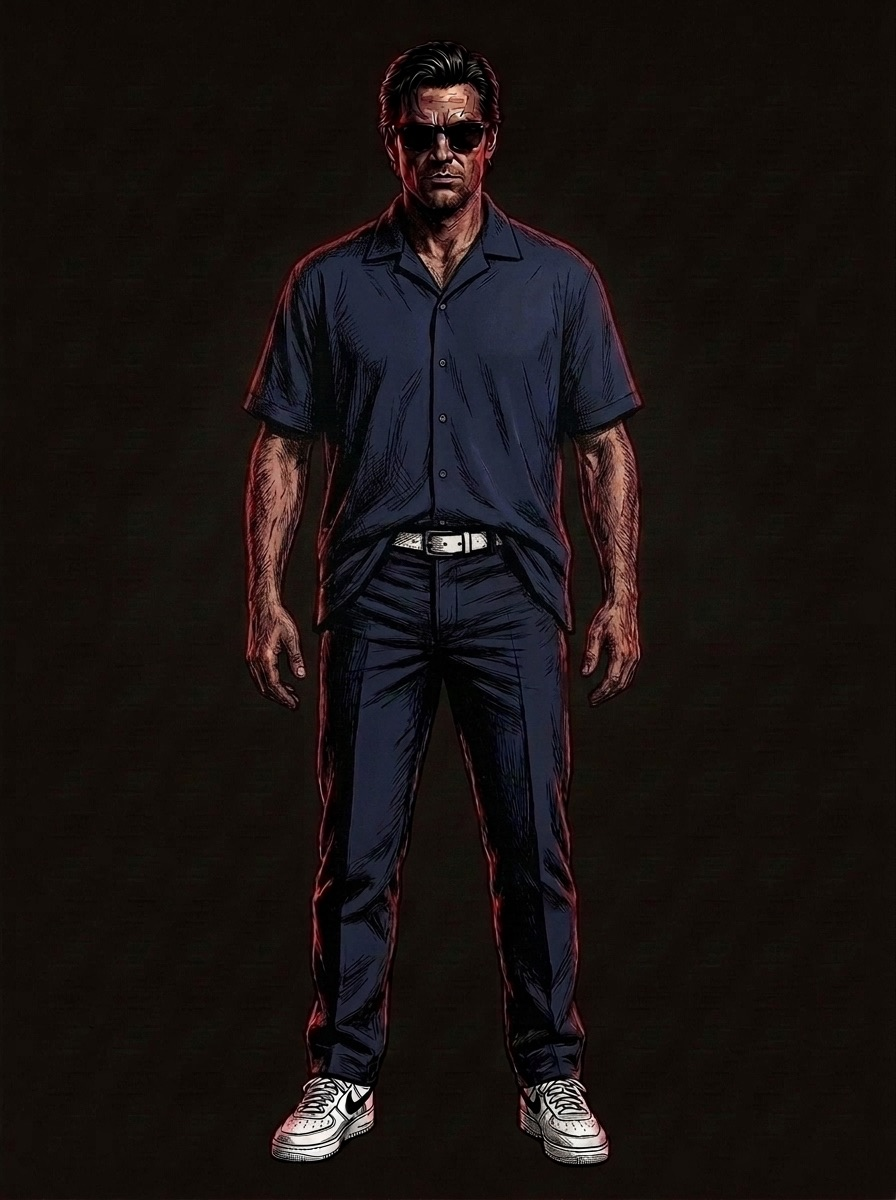
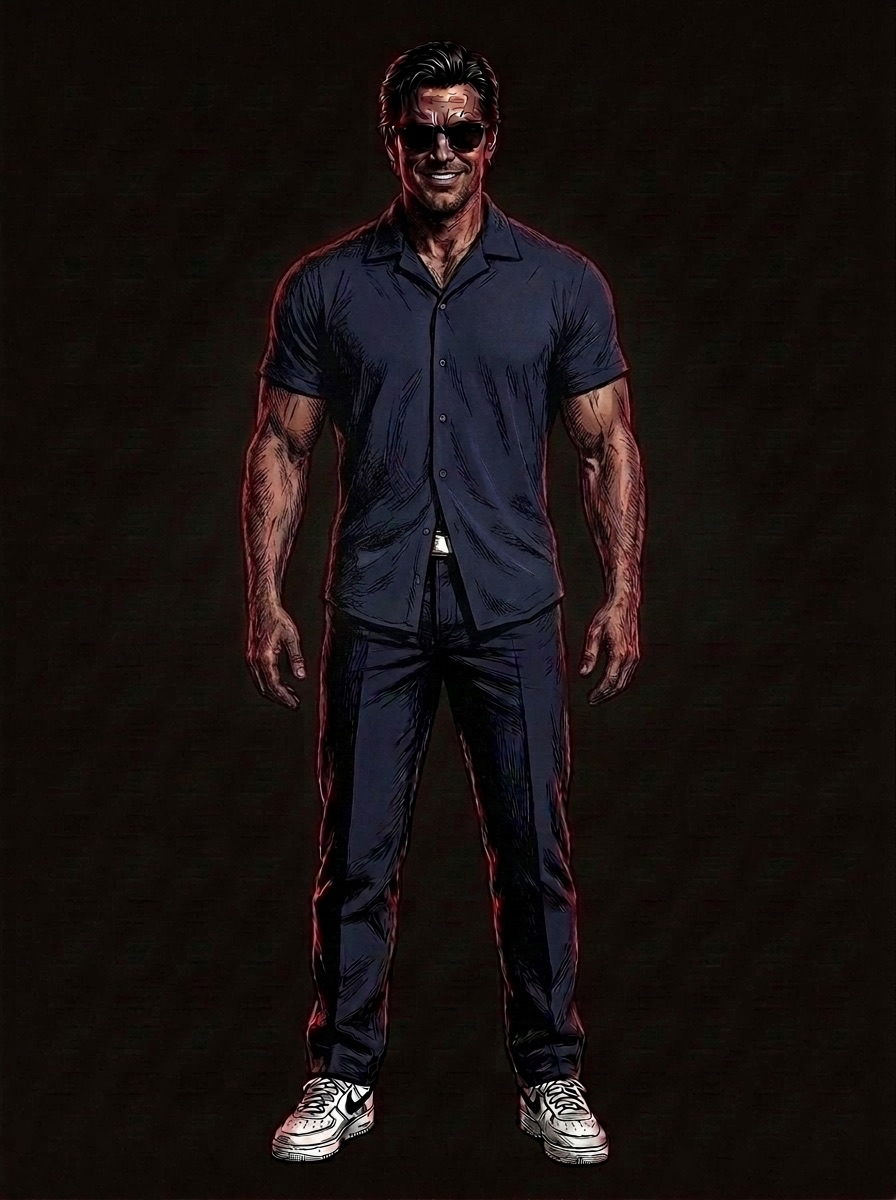
agents: Pflash frame — smiling, shirt untucked, fit build

diff --git a/assets/stage.js b/assets/stage.js
@@ -286,7 +286,7 @@
     pflash: ['000'],   /* Dan 10/16: no spinning; straight on. The other seven frames stay in assets/turn/pflash/ if ever wanted. */
     atlas: ['000']   /* one frame so far, so it stands still (and no 404s in the console); add '045' ... as the frames arrive in assets/turn/atlas/ */
   };
-  var FRAME_VER = '20261016-10';   /* bump whenever a frame image is replaced, so browsers refetch it */
+  var FRAME_VER = '20261016-11';   /* bump whenever a frame image is replaced, so browsers refetch it */
   function frameUrls(dir){ return TURN[dir].map(function(a){ return 'assets/turn/' + dir + '/' + a + '.jpg?v=' + FRAME_VER; }); }
   /* mount a turnaround in `fig` (needs a .pf-2d host and a .pf-disc inside it): o.dir, o.ready(handle), o.fail() */
   function mount2d(o){

diff --git a/agents.html b/agents.html
@@ -242,7 +242,7 @@
 </footer>
 
 <script src="assets/stage2d.js?v=1" defer></script>
-<script src="assets/stage.js?v=16" defer></script>
+<script src="assets/stage.js?v=17" defer></script>
 <script>
 /* Same submit behavior as index.html's #scanForm: validate lightly, then go to scan.html?addr=<value>. */
 document.getElementById('scanForm').addEventListener('submit', function(e){
